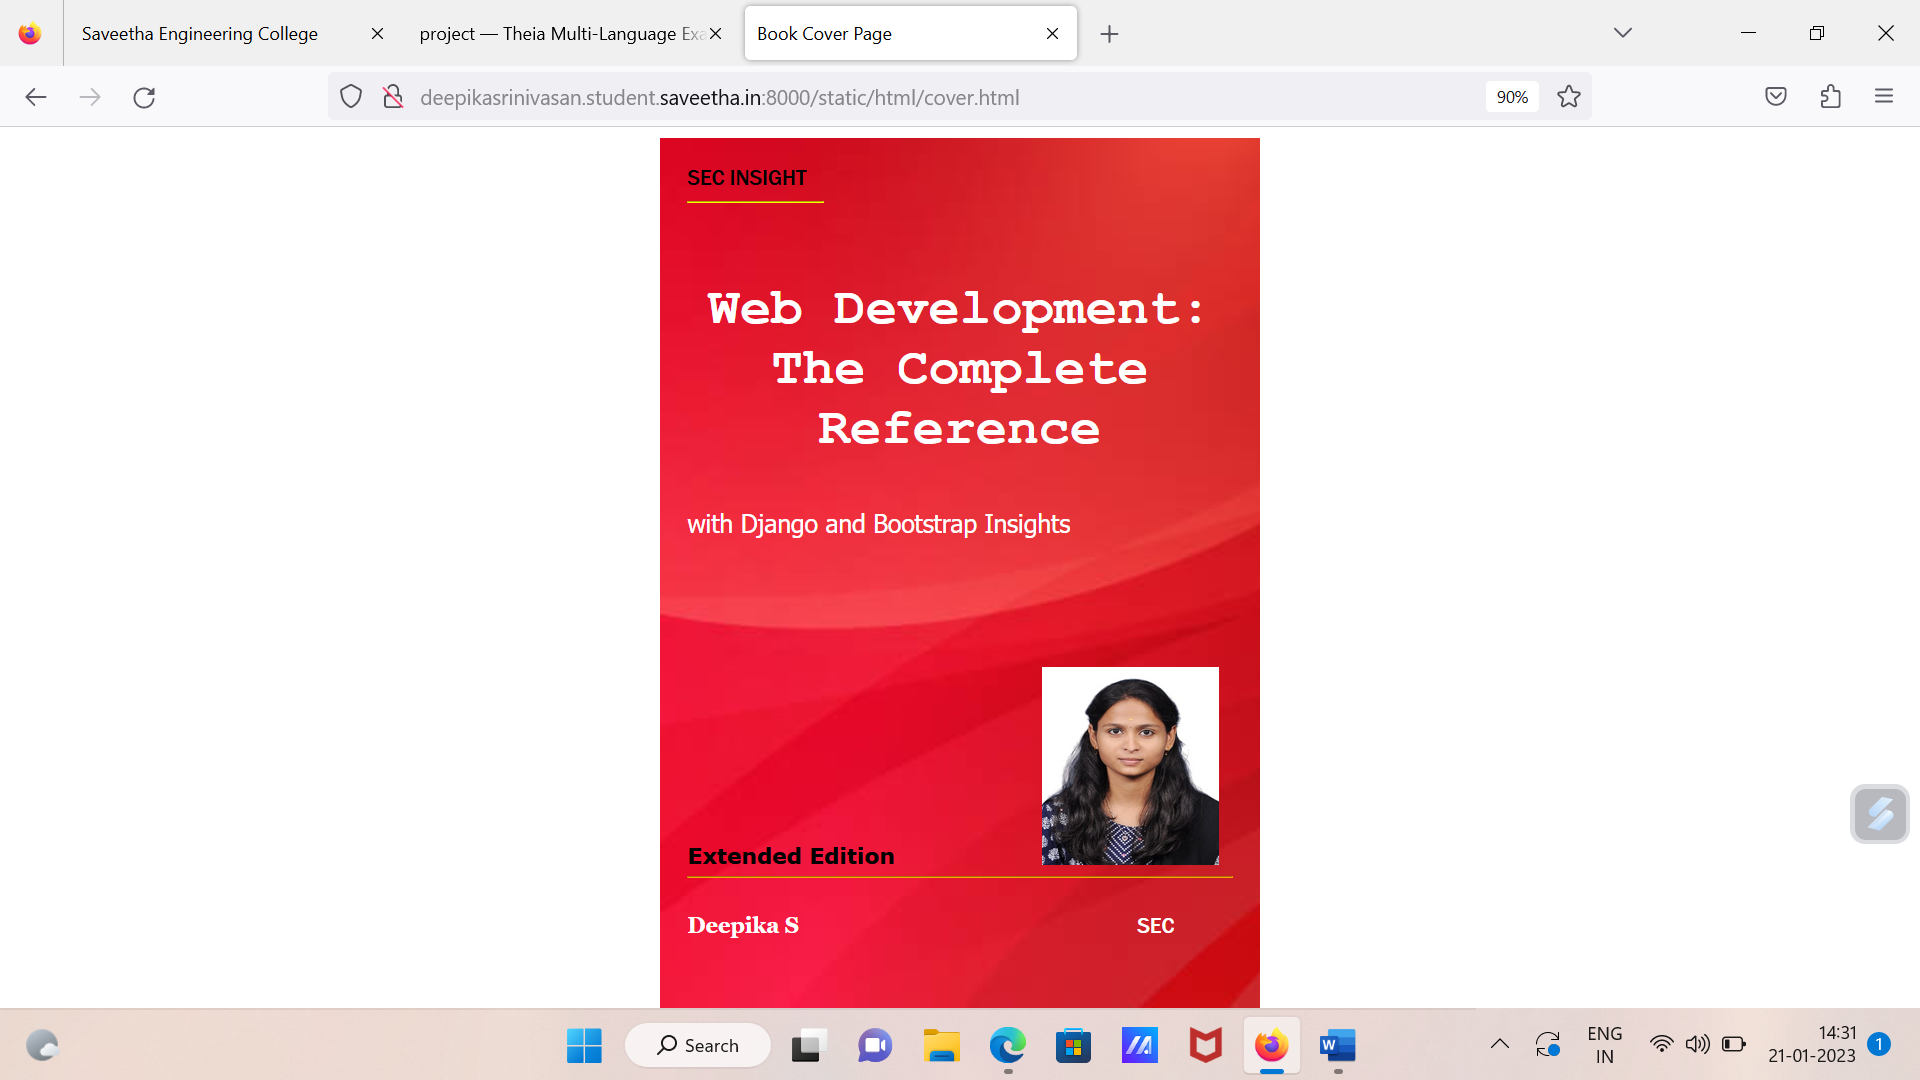
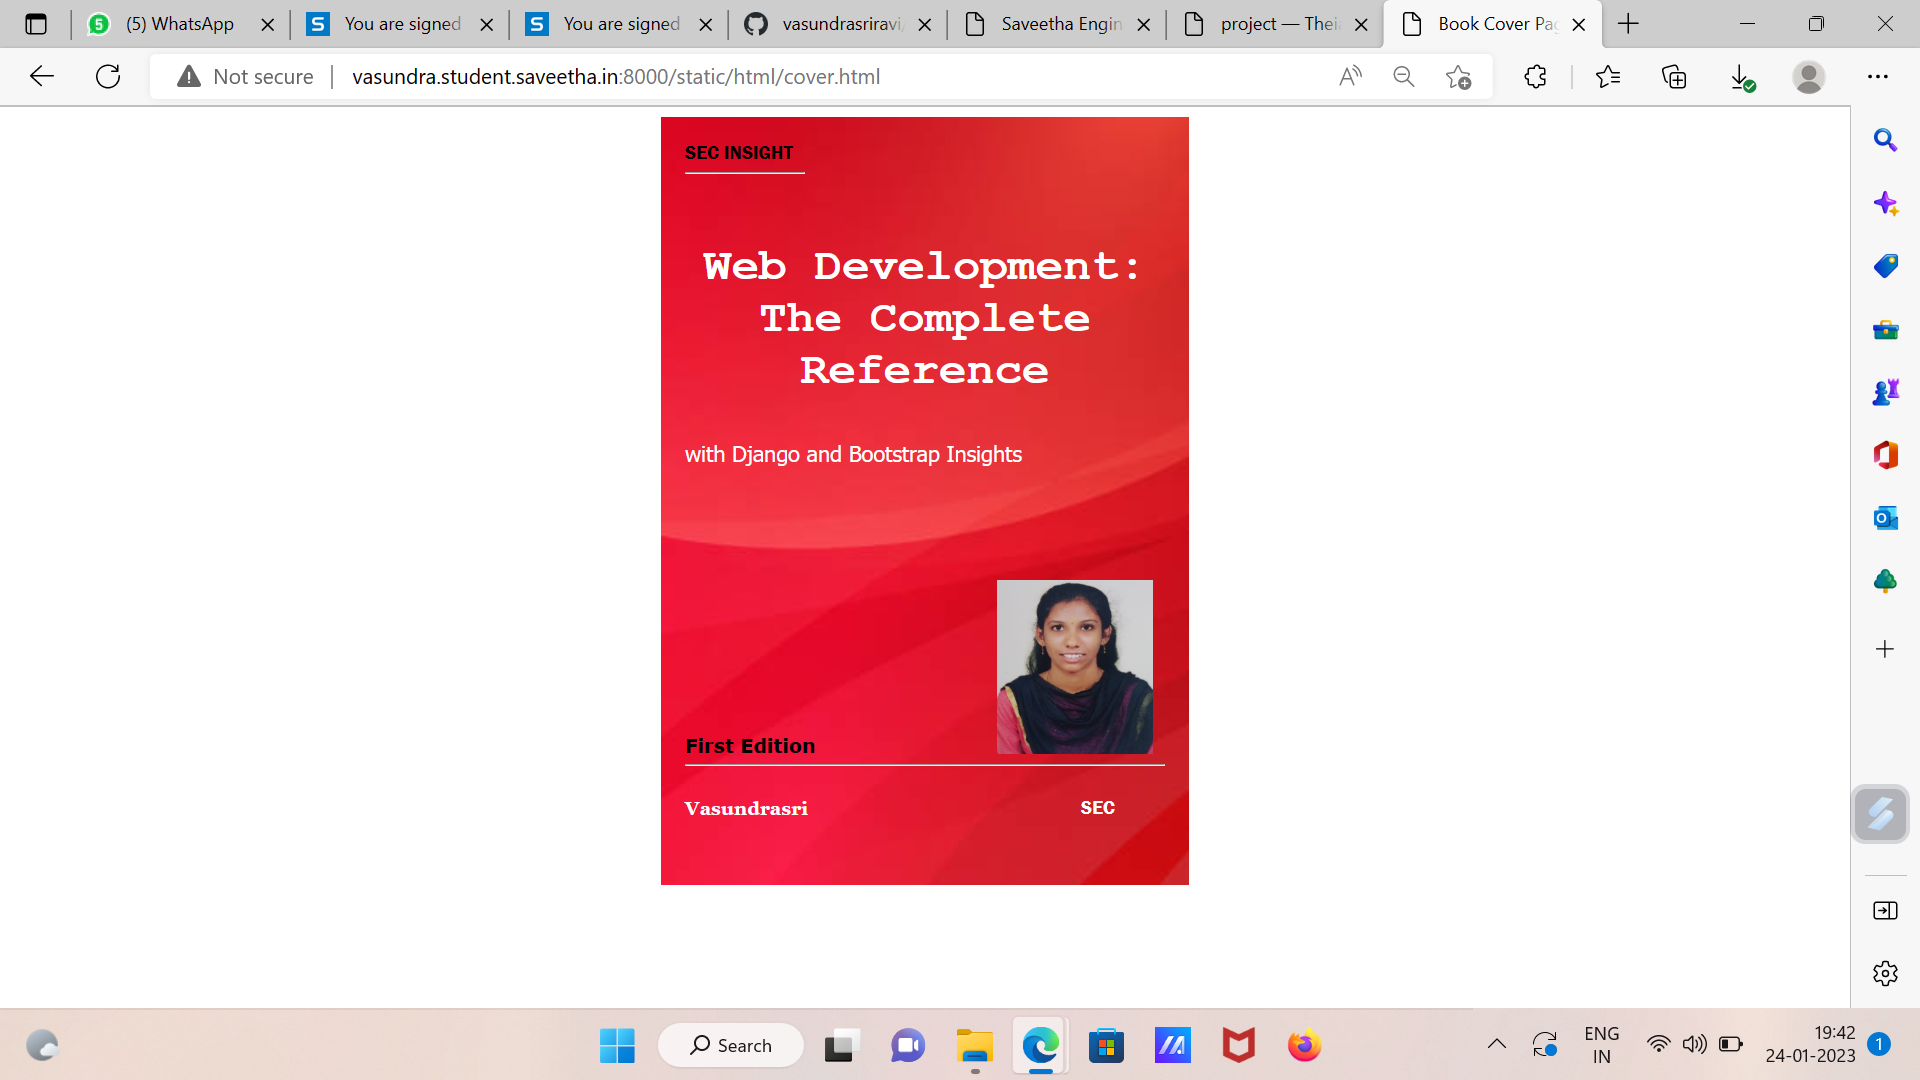
Success

diff --git a/gypsy/static/html/cover.html b/gypsy/static/html/cover.html
@@ -102,13 +102,13 @@
                 <hr style="color: orange;">
             </div>
             <div class="author">
-               <p><b>Deepika S</b></p>
+               <p><b>Vasundrasri</b></p>
             </div>
             <div class="pub">
                 SEC
             </div>
             <div class="ed">
-                <b>Extended Edition</b>
+                <b>First Edition</b>
             </div>
         </div>
     </body>
